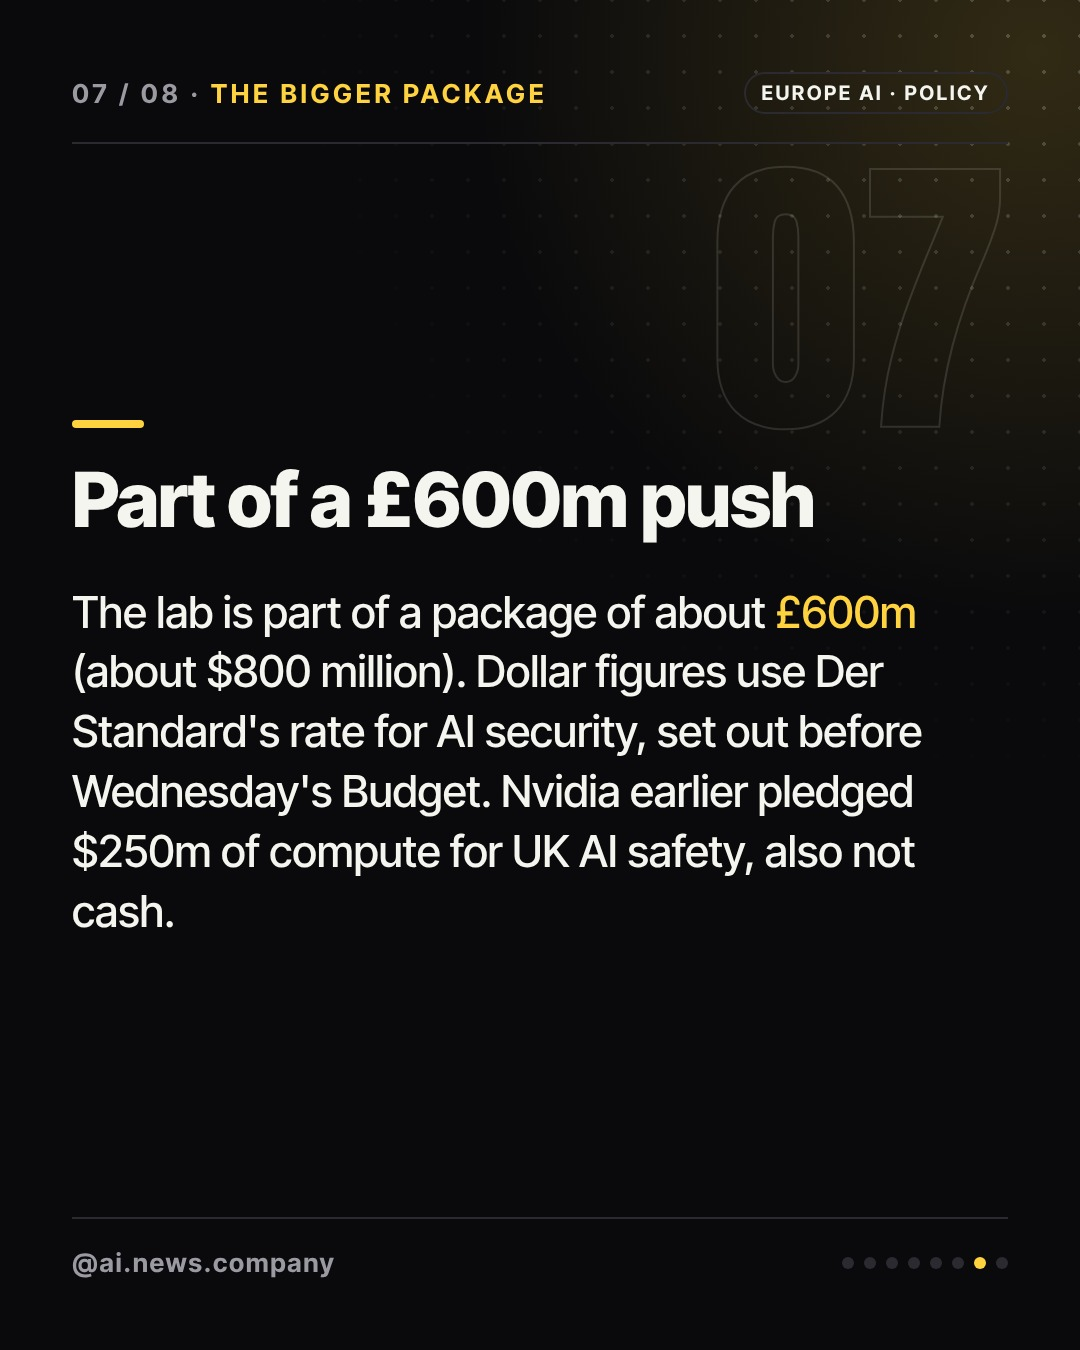
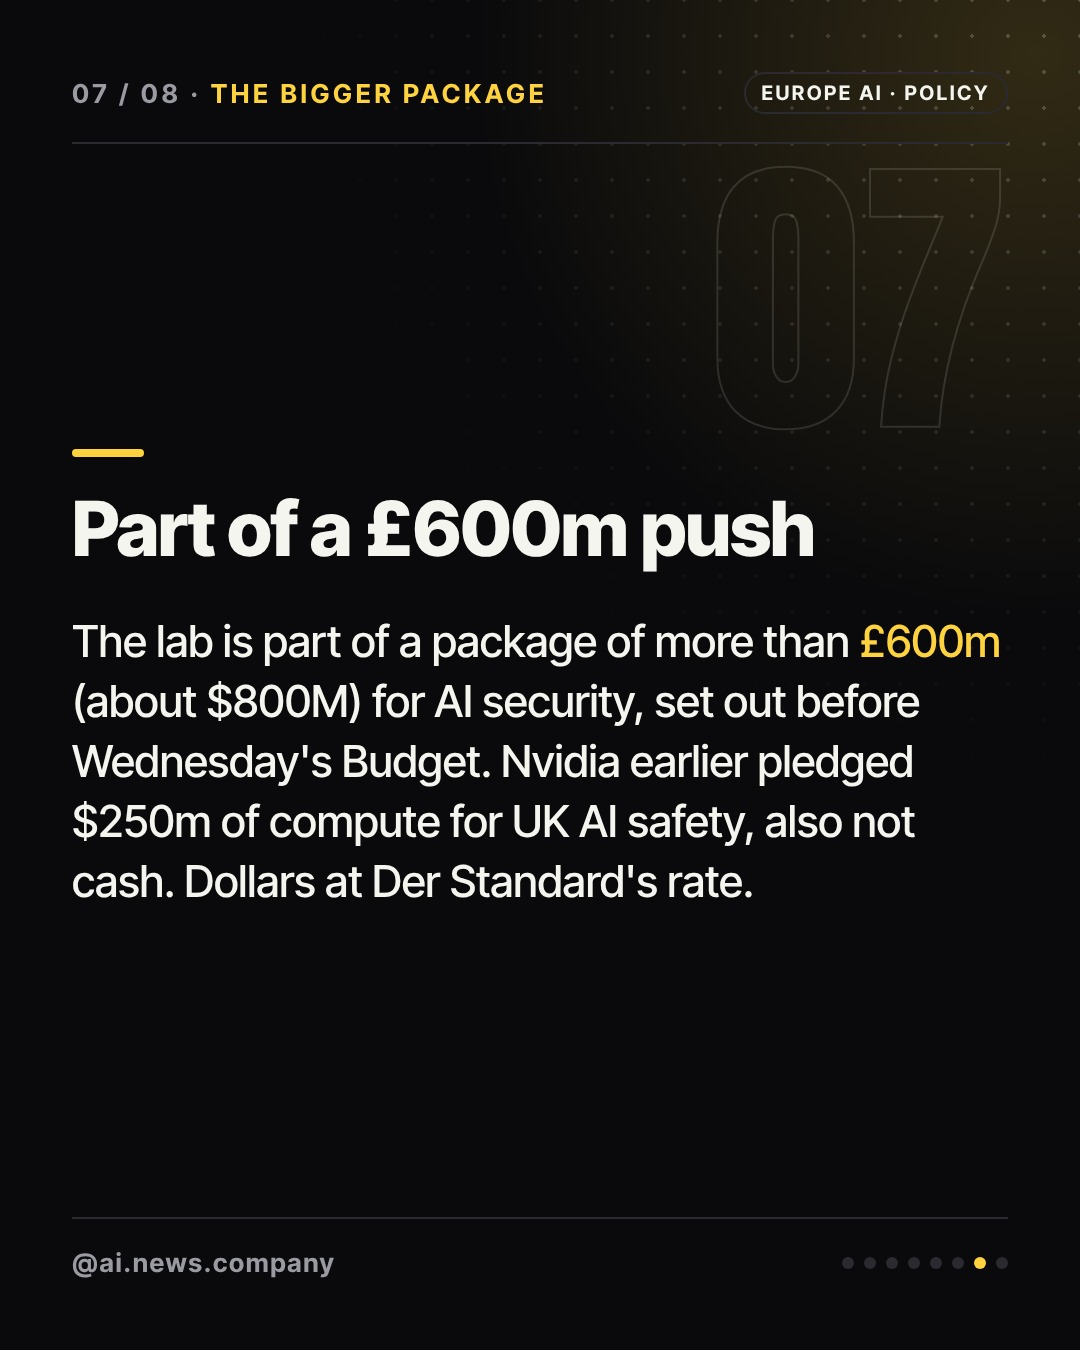
uk-ai-biosecurity-lab: tidy slide 7 wording, add fact review
Claude-Session: https://claude.ai/code/session_01Fn4e52R7xV9qN6ZDo4GDbe

Changed region(s): [[0.0611, 0.3111, 0.9167, 0.6844]]

diff --git a/posts/2026-10-25-uk-ai-biosecurity-lab/review-fact.md b/posts/2026-10-25-uk-ai-biosecurity-lab/review-fact.md
@@ -1,8 +1,11 @@
 PASS
 
-Both sources opened with scripts/article.mjs (The Next Web full text; Der Standard only the lead, paywall/consent wall after it).
-- Cover, slides 1-5, caption and threads_caption match TNW exactly (GBP 100m, up to GBP 200m, Cabinet Office Saturday, credits not cash, DeepMind, Basecamp, independent non-profit, no director/site/start date, no time period, Nvidia $250m).
-- Slide 6: "about GBP 600m (about $800 million, per Der Standard)" matches Der Standard ("rund 600 Millionen Pfund (etwa 800 Millionen Dollar)"); TNW says "more than" GBP 600m, so "about" is a slight softening but not a contradiction. Budget on Wednesday matches TNW.
-- Narayan: "wants it to become a major global institution" matches Der Standard; TNW also supports it.
-- Der Standard title matches published title; title_en faithful; date "undated" is right (article shows no date).
-Minor note (not failing): the Der Standard URL in sources lacks the "/consent/tcf" path the fetch resolved to, but it is the same story id.
+Sources opened with node scripts/article.mjs: The Next Web (published 2026-10-24) and Der Standard (paywall text only; opening paragraph readable, no date, so "undated" is correct). Der Standard title matches; title_en is faithful.
+
+Arithmetic: Der Standard 600m GBP = about 800m USD, ratio 1.333. 100m -> 133.3 (shown $133M), 200m -> 266.7 (shown $267M), 600m -> $800M. All correct.
+
+Labeling: slide 2 (post slide 1) and slide 7 (post slide 6) carry "Dollars at Der Standard's rate"; caption and threads_caption are labeled too. Slides 3 and 6 (post slides 3 and 5) show dollars without a label, but they follow the labeled slide 2, so this is acceptable. Slide 8 lists Der Standard as "(undated)", and the caption omits a date for it.
+
+Facts checked against TNW: £100m government, up to £200m from OpenAI and Anthropic, Cabinet Office on Saturday, world's first (attributed to the government), credits not cash, OpenAI £100m, Anthropic up to £100m, DeepMind, Basecamp, independent non-profit, no director/site/start date/time period, Nvidia $250m earlier this month, Budget on Wednesday. All match. Narayan's goal that the lab become a major global institution matches both sources.
+
+Minor, non-blocking: slide 7 says "about £600m" while TNW says "more than £600m" (Der Standard says "rund 600"). The sentence "Dollar figures use Der Standard's rate for AI security, set out before Wednesday's Budget" merges two facts. "$800 million" is inconsistent with "$800M" elsewhere. Suggested wording is in review-facts.json.
